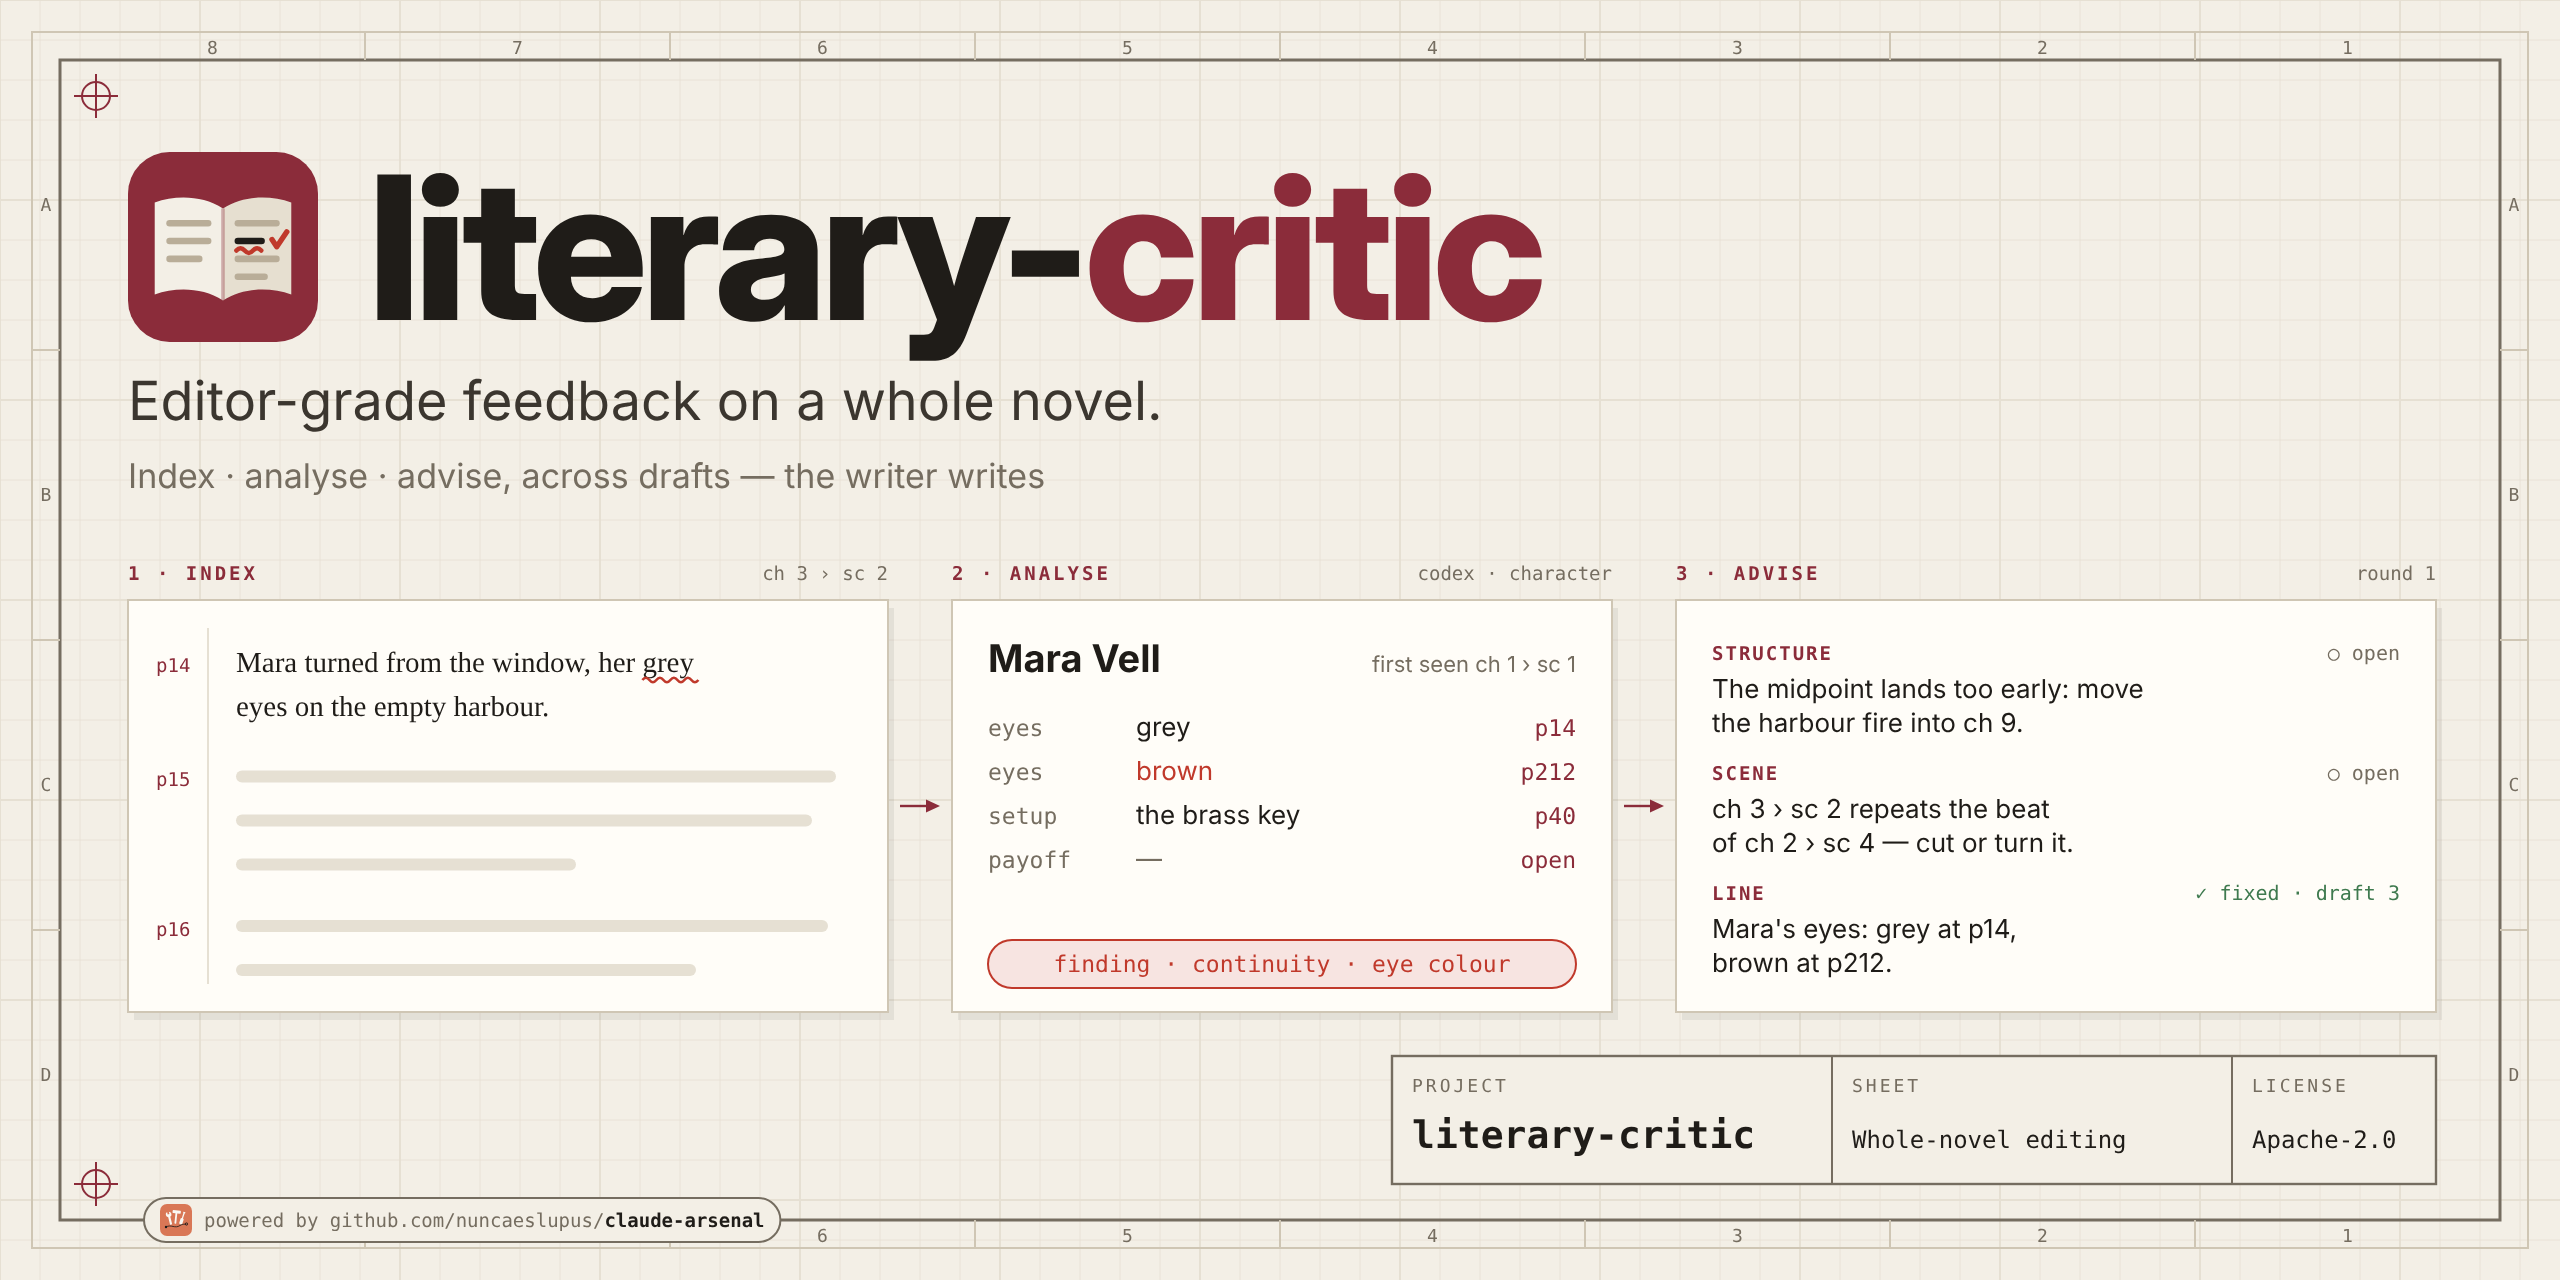
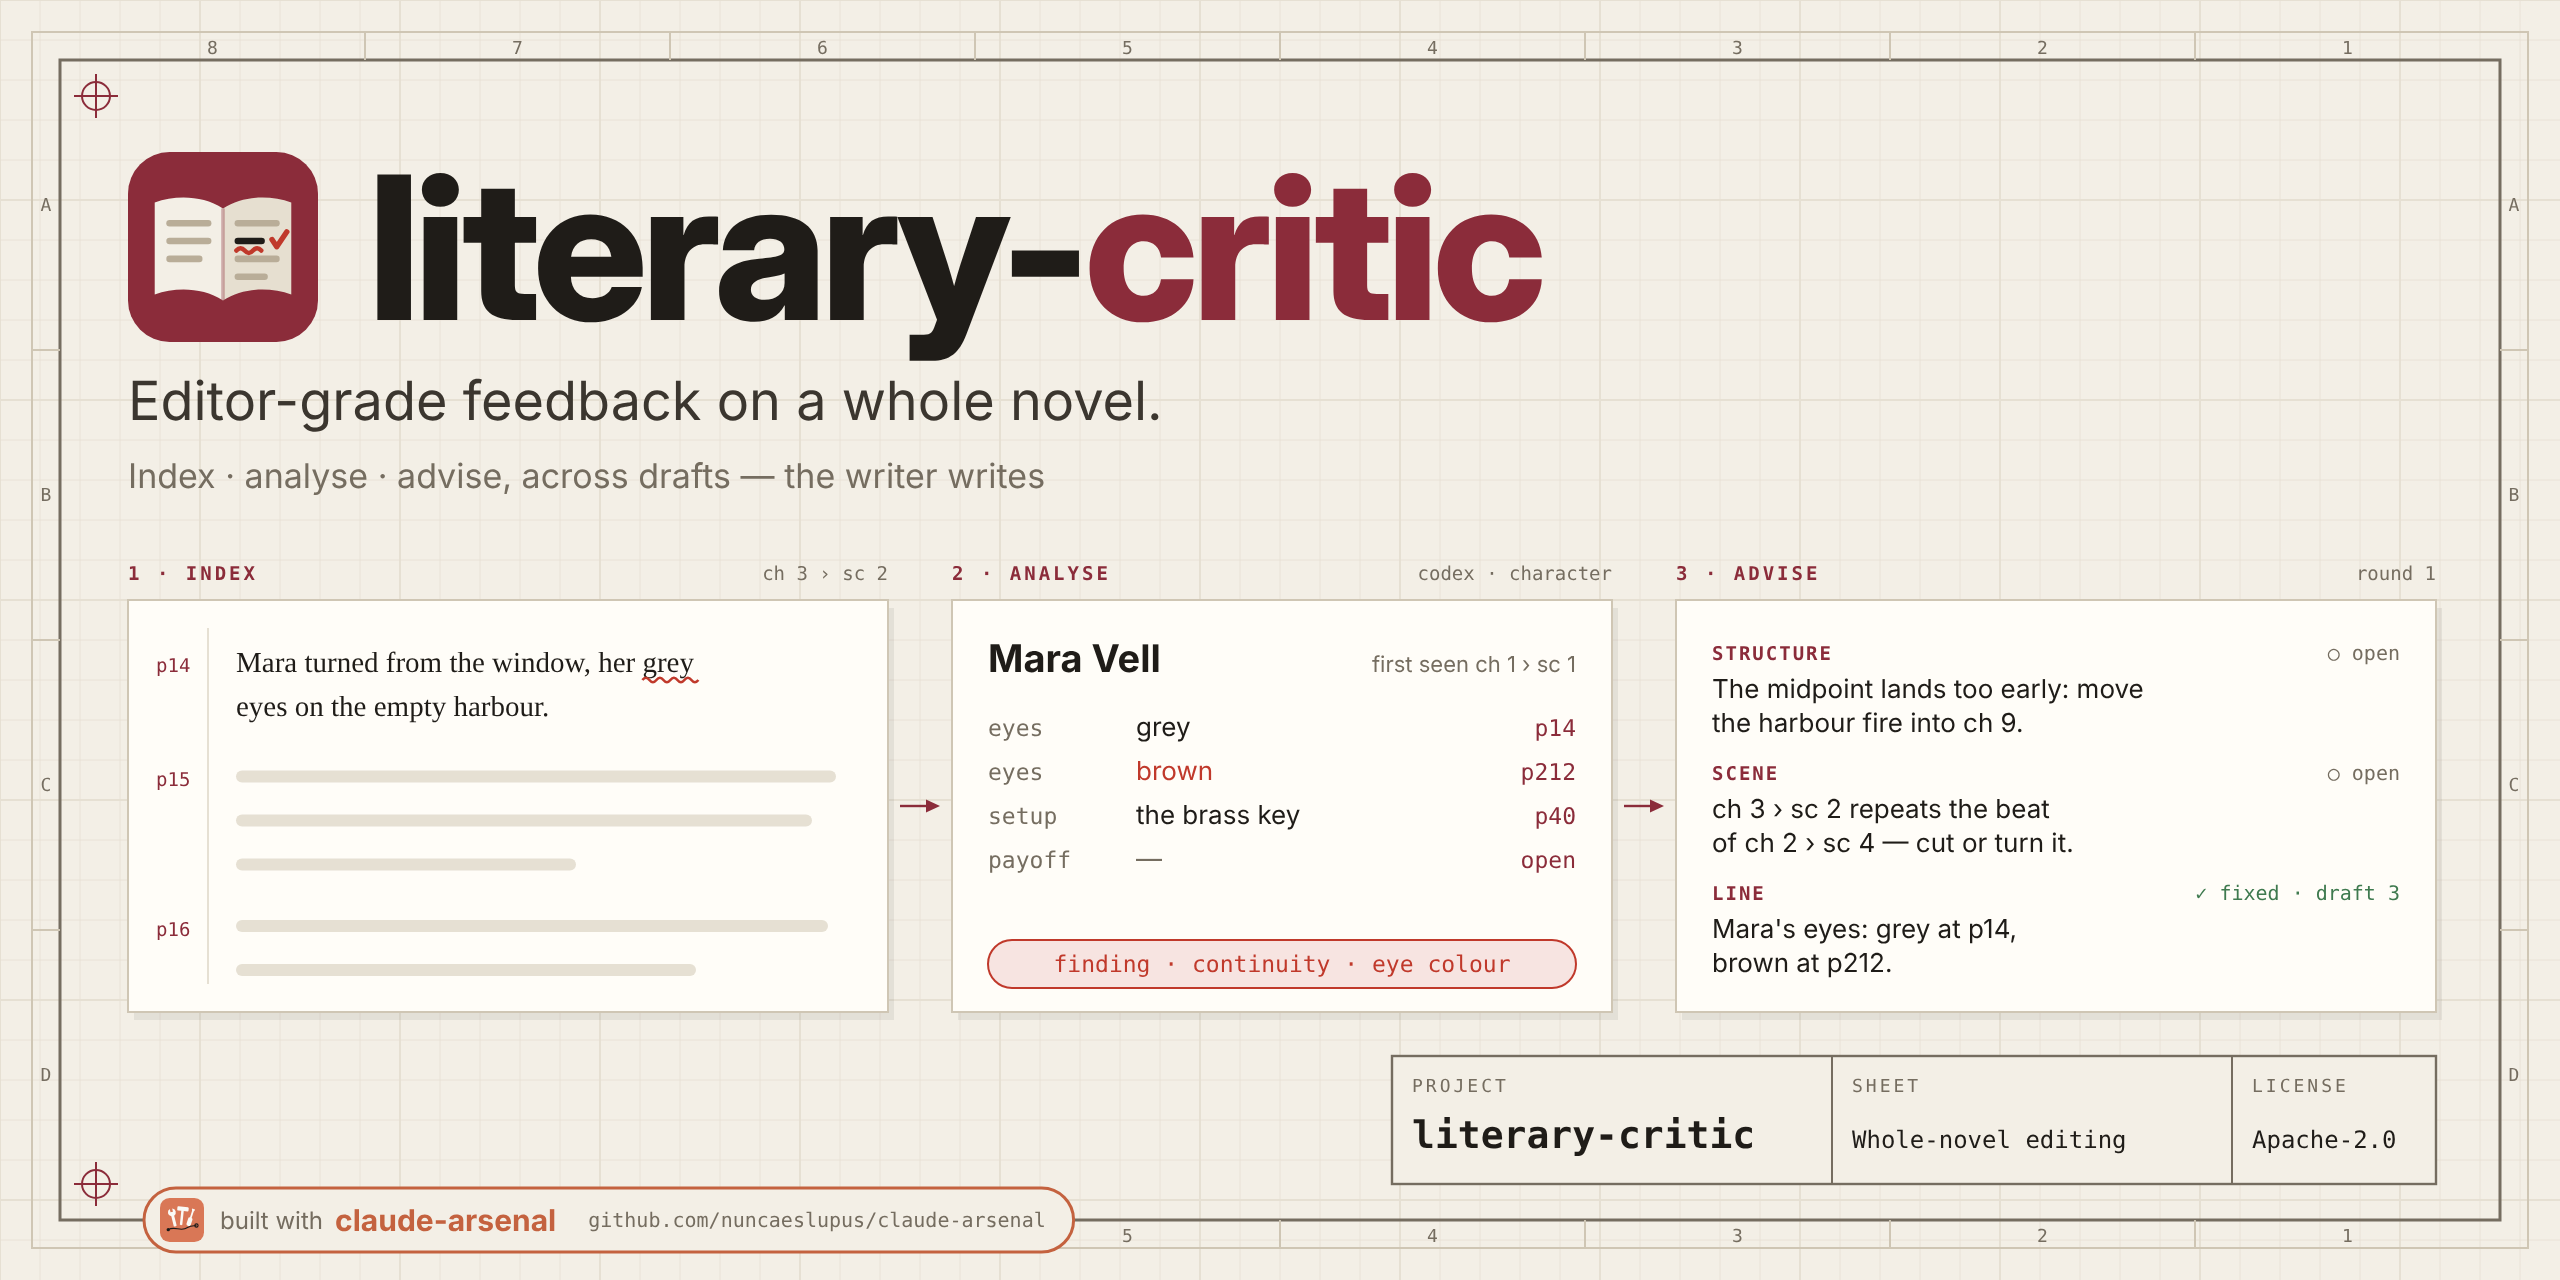
docs(hero): make the claude-arsenal stamp a prominent 'built with' badge
Claude-Session: https://claude.ai/code/session_01LCwNvQnUhGTW4nvYBmNboX

Changed region(s): [[0.0625, 0.9062, 0.4062, 1.0]]

diff --git a/tools/hero.py b/tools/hero.py
@@ -330,20 +330,38 @@ def title_block() -> list[str]:
     return out
 
 
+def width(s: str, size: float, face: str) -> float:
+    """Advance of `s` in an installed face (an fc-match pattern)."""
+    from PIL import ImageFont
+
+    path = subprocess.run(
+        ["fc-match", "-f", "%{file}", face], capture_output=True, text=True
+    ).stdout
+    return ImageFont.truetype(path, 100).getlength(s) * size / 100
+
+
+ARSENAL = "#c4623f"  # claude-arsenal's own orange
+
+
 def powered_by() -> list[str]:
-    """A "powered by" stamp for claude-arsenal, set on the frame's bottom edge."""
-    lead, name = "powered by github.com/nuncaeslupus/", "claude-arsenal"
-    size, tile, pad, gap = 9.5, 16, 8, 6
-    lead_w = len(lead) * size * MONO_EM
-    width = pad + tile + gap + lead_w + len(name) * size * MONO_EM + pad
+    """The claude-arsenal stamp, set on the frame's bottom edge: what this repo is built with."""
+    lead, name, url = "built with", "claude-arsenal", "github.com/nuncaeslupus/claude-arsenal"
+    tile, pad, gap = 22, 8, 8
+    lead_w = width(lead, 12, "Inter")
+    name_w = width(name, 15, "Inter:weight=700")
+    url_w = len(url) * 10 * MONO_EM
+    total = pad + tile + gap + lead_w + 6 + name_w + 12 + url_w + pad + 6
     x, cy = 72, H - 30
     tx = x + pad + tile + gap
     return [
-        f'<rect x="{x}" y="{cy - 11}" width="{width:.1f}" height="22" rx="11" '
-        f'fill="{GROUND}" stroke="{DIM}"/>',
+        f'<rect x="{x}" y="{cy - 16}" width="{total:.1f}" height="32" rx="16" '
+        f'fill="{GROUND}" stroke="{ARSENAL}" stroke-width="1.5"/>',
         nested(ROOT / "docs" / "claude-arsenal-logo.svg", x + pad, cy - tile / 2, tile),
-        text(tx, cy + 3.4, lead, size=size, fill=DIM, family=MONO),
-        text(round(tx + lead_w, 1), cy + 3.4, name, size=size, family=MONO, weight=700),
+        text(tx, cy + 4.3, lead, size=12, fill=DIM),
+        text(round(tx + lead_w + 6, 1), cy + 5.3, name, size=15, fill=ARSENAL, weight=700),
+        text(
+            round(tx + lead_w + 6 + name_w + 12, 1), cy + 3.6, url, size=10, fill=DIM, family=MONO
+        ),
     ]
 
 
